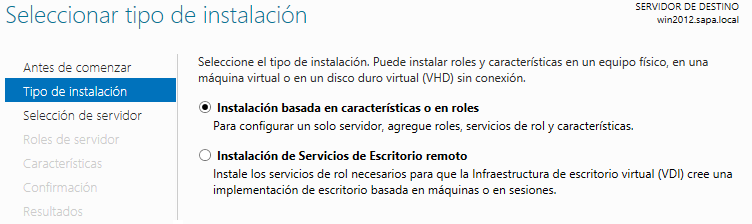
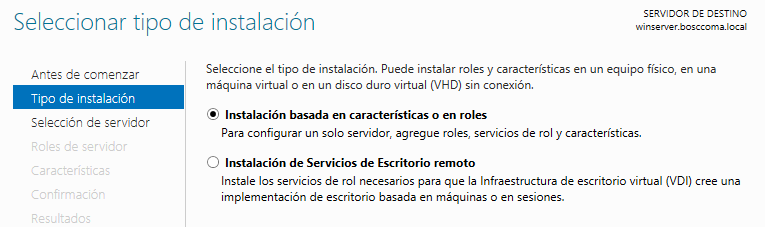
Updates UF1/instalacio-AD.md
Auto commit by GitBook Editor

diff --git a/UF1/instalacio-AD.md b/UF1/instalacio-AD.md
@@ -20,50 +20,53 @@
 
 5. Un cop finalitzada la instal·lació ens apareix una pantalla informativa on ens adverteix que per convertir el servidor en un controlador de domini funcional cal obrir l'assistent per crear un nou domini seleccionant _**Promover este servidor a controlador de dominio**_.
 
-![](/assets/AD_ins4.png)
+  ![](/assets/AD_ins4.png)
 
 ## Creació del domini
 Un cop instal·lats els serveis bàsics de **Directori Actiu** és necessari completar la instal·lació mitjançant la creació d'un **nou domini** i la promoció de l'equip a controlador de domini mitjançant els següents passos:
 
-1. En l’_**Administrador del servidor**_ ens apareix una notificació indicant que es requereix una confinguració del AD i mostra l’opció de _**Promover este servidor a controlador de dominio**_.
+En l’_**Administrador del servidor**_ ens apareix una notificació indicant que es requereix una confinguració del AD i mostra l’opció de _**Promover este servidor a controlador de dominio**_.
 
-![](/assets/AD_ins5.png)
+  ![](/assets/AD_ins5.png)
 
-2. Després de la pantalla d'inici de l’assistent hi ha tres opcions: 
+Després de la pantalla d'inici de l’assistent hi ha tres opcions: 
   * **_Afegir l'equip com a controlador de domini a un domini ja existent_**: serveix per afegir un controlador secundari a un domini ja creat. 
   * **_Afegir un nou domini en un bosc existent_**.
   * **_Afegir un nou bosc_**.
   
-  Com que no tenim encara cap domini creat escollim la tercera opció _**Afegir un nou bosc**_.
+Com que no tenim encara cap domini creat escollim la tercera opció _**Afegir un nou bosc**_.
 
-  A continuació has d'introduir el nom complet del domini arrel. Aquest nom ha de complir l'estructura DNS (_Domain Name System_) amb sufix inclòs amb el que definirem el nom del bosc i l'espai de noms, per exemple `bosccoma.local`. 
+A continuació has d'introduir el nom complet del domini arrel. Aquest nom ha de complir l'estructura DNS (_Domain Name System_) amb sufix inclòs amb el que definirem el nom del bosc i l'espai de noms, per exemple `bosccoma.local`. 
 
-
-
-    
-        Imatge
-  
+  ![](/assets/AD_ins6.png)
 
 
+Després ens demana el nivell de funcionalitat del sistema. Sempre escollirem el més alt, a no ser que calgui garantir la compatibilitat amb altres dominis gestionats per versions inferior. 
+
+En el nostre cas, cal seleccionar l'opció "**_Nivell de funcionalitat Windows Server 2012 R2_**" i prem **_Següent_**.
+
+L'assistent ens demana ara una **contrasenya **per poder administrar el **Directori Actiu**. En general, encara que poden ser diferents, sol ser convenient posar la mateixa contrasenya que l'administrador de l'equip. 
+
+Introdueix doncs la contrasenya de l'administrador i prem **_Següent_**.
+
+  ![](/assets/AD_ins7.png)
 
 
-3. Després ens demana el nivell de funcionalitat del sistema que es determina en funció de la compatibilitat per integrar amb altres dominis gestionats per versions anteriors. 
-  En el nostre cas, per assegurar la compatibilitat amb Windows 2008 R2 cal seleccionar l'opció "**_Nivell de funcionalitat Windows 2012 R2_**" i prem **_Següent_**.
+A continuació indicarà que no troba un servidor DNS, però **no cal fer res**; automàticament s'instal·larà el servei de DNS en aquest mateix servidor doncs **cal tenir instal·lat el servei de resolució de noms per al correcte funcionament del Directori Actiu**.
 
-4. Després d'examinar la configuració DNS i, en el cas de no estar instal·lat aquest servei, has de deixar marcada la casella **_Servidor DNS_** i prémer Següent doncs **cal tenir instal·lat el servei de resolució de noms per al correcte funcionament del Directori Actiu**.
+La finestra següent, demanarà el **nom NetBIOS** del domini. Es pot deixar el què proposa per defecte, que serà `BOSCCOMA` (el nom del domini en majúscules i sense .local).
 
-5. L'assistent ens demana ara una **contrasenya **per poder administrar el **Directori Actiu**. En general, encara que poden ser diferents, sol ser convenient posar la mateixa contrasenya que l'administrador de l'equip. 
-  Introdueix doncs la contrasenya de l'administrador i prem **_Següent_**.
+Després s'ha d'indicar la localització dels arxius bàsics que utilitzarà el Directori Actiu: la carpeta per a base de dades, la carpeta d'arxius de registre i la carpeta SYSVOL que conté els arxius públics del domini que han de ser compartits. Podem deixar les opcions per defecte.
 
-8. A continuació s'ha d'indicar la localització dels arxius bàsics que utilitzarà el Directori Actiu: la carpeta per a base de dades, la carpeta d'arxius de registre i la carpeta SYSVOL que conté els arxius públics del domini que han de ser compartits.
+A continuació, se'ns informa mitjançant un **resum**, de tota les configuracions que hem seleccionat. 
 
-9. Se'ns informa a continuació mitjançant un **resum**, de tota les configuracions que hem seleccionat. En aquest punt podríem Exportar Configuració... és a dir, guardar aquestes seleccions en un arxiu per utilitzar-les en futures instal·lacions automàtiques.
+En prémer **_Següent_** comença el procés de comprovació de requeriment previs i després podem sel·leccionar **_Instal·lar_** i comença el procés de **promoció de l'equip a Controlador de Domini**. 
 
-10. En prémer **_Següent _**comença la instal·lació de **Directori Actiu** i el procés de **promoció de l'equip a Controlador de Domini**, que poden portar més o menys temps en funció de l'entorn i de les opcions seleccionades. 
+Finalment apareix una pantalla informativa un cop acabada la instal·lació. Prémer **_Finalitza _** i després **Reiniciar l'equip** perquè el Directori Actiu s’iniciï i estigui operatiu.
 
-11. Finalment apareix una pantalla informativa un cop acabada la instal·lació. Prémer **_Finalitza _**i després **Reiniciar l'equip** perquè el Directori Actiu s’iniciï i estigui operatiu.
+> Si tot ha funcionat correctament, el nostre equip ja està convertit en un controlador de domini del Directori Actiu per gestionar de forma centralitzada els recursos de la xarxa.
 
-12. Si tot ha funcionat correctament, el nostre equip ja està convertit en un controlador de domini del Directori Actiu per gestionar de forma centralitzada els recursos de la xarxa.
+Un cop reiniciat el sistema, en la pantalla d'inici de sessió, on demana l'usuari i contrasenya, ja es pot veure un canvi: el nom d'usuari és `BOSCCOMA\Administrador`. 
 
 ## Unir equips al domini
 
